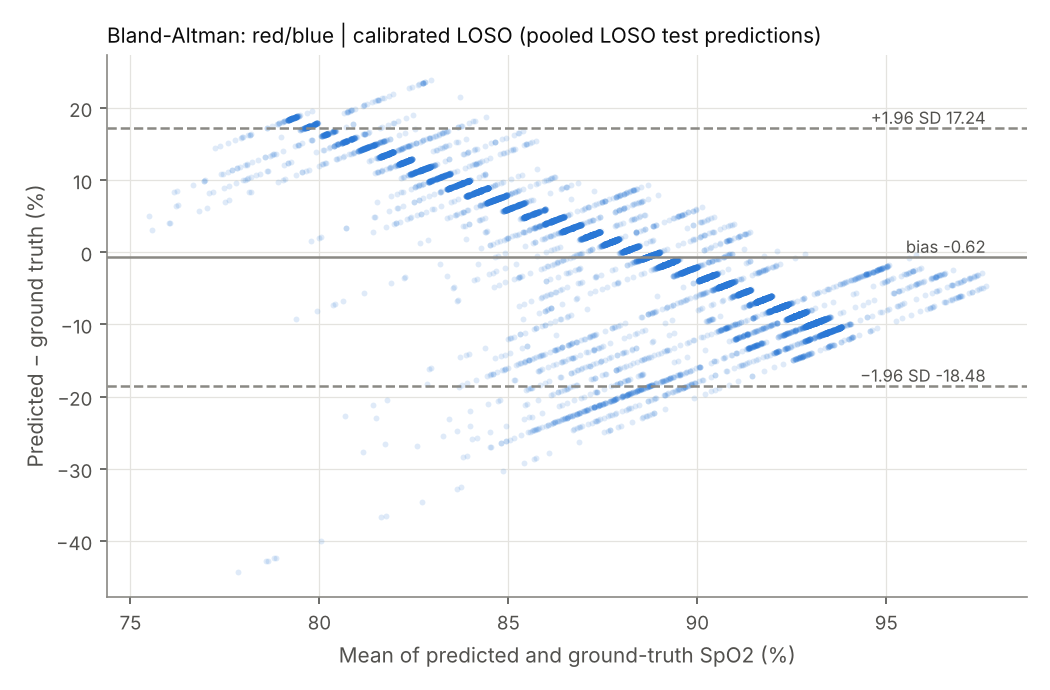
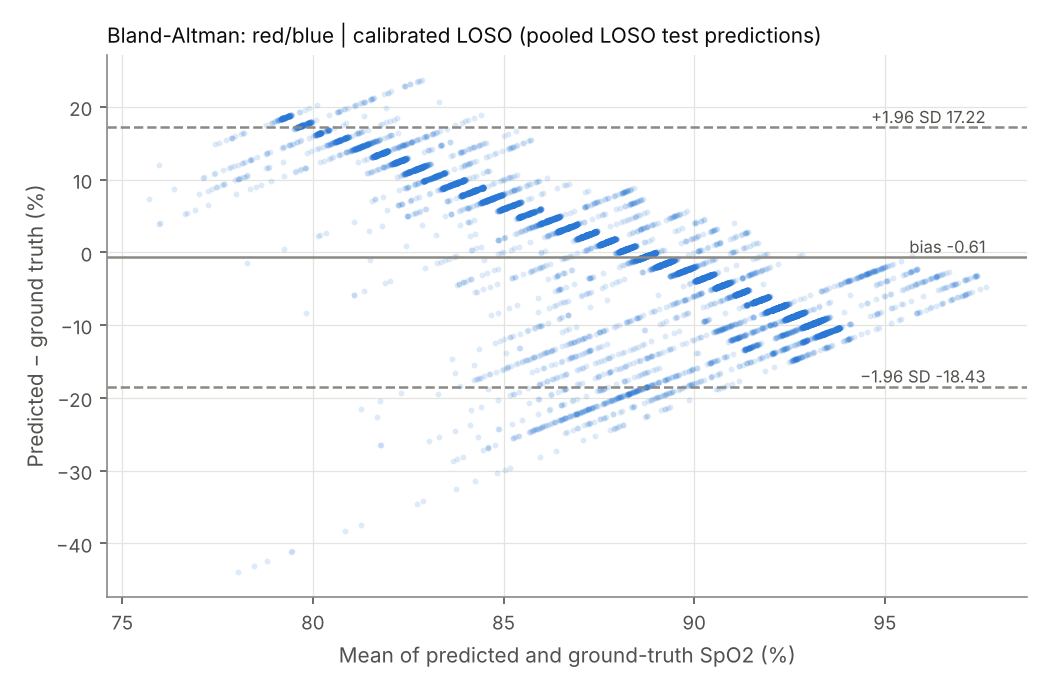
Align ground truth to frames by each recording's own length
Map ground-truth row i to frame round(i * n_frames / n_gt_rows) instead
of i * 30. Recordings have 29.97-30.09 frames per GT row, so the fixed
30x mapping drifted by up to 2.6 s by the end of a recording.

Rerun src/ratio_of_ratios.py, update all results, and add a before/after
comparison of the main metrics to results/part1_summary.md.

Claude-Session: https://claude.ai/code/session_01RVQyu9iLi91GVmJw2MmXiP

diff --git a/src/dataset.py b/src/dataset.py
@@ -3,8 +3,10 @@
 Smartphone PPG: data/raw/data/ppg-csv/{Left,Right}/<subject>.csv  (R,G,B mean pixel value, 30 Hz)
 Ground truth:   data/raw/data/gt/<subject>.csv                    (1 Hz, Masimo Radical-7 = "SpO2 5"/"Pulse 5")
 
-The camera and the oximeters were started and stopped together, so ground-truth row i
-is aligned to frame i * FPS (alignment by index, no timestamps on the video side).
+The camera and the oximeters were started and stopped together, but the recordings have
+29.97-30.09 frames per ground-truth row rather than exactly 30. Mapping row i to frame i*30
+would drift by up to 2.6 s by the end of a recording, so each recording is stretched to its
+own length instead: row i -> frame round(i * n_frames / n_gt_rows).
 """
 from pathlib import Path
 
@@ -50,13 +52,18 @@ def alignment_report():
                 "subject": s, "hand": h, "gt_rows": n_gt, "frames": n_frames,
                 "frames_per_gt_row": n_frames / n_gt,
                 "frames_minus_30x_gt": n_frames - FPS * n_gt,
-                "drift_seconds": (n_frames - FPS * n_gt) / FPS,
+                "drift_seconds_if_i_times_30": (n_frames - FPS * n_gt) / FPS,
             })
     return pd.DataFrame(rows)
 
 
+def gt_row_to_frame(i, n_frames, n_gt):
+    """Centre frame for ground-truth row i, scaled so first and last rows match both ends."""
+    return int(round(i * n_frames / n_gt))
+
+
 def build_windows(window_sec=3.0, min_spo2=MIN_SPO2):
-    """Cut one window of `window_sec` seconds centred on frame i*FPS for every GT row i.
+    """Cut one window of `window_sec` seconds centred on frame round(i * n_frames / n_gt) for every GT row i.
 
     Windows that would run past either end of the recording are skipped, as are rows
     with missing SpO2 or SpO2 < min_spo2. Missing pulse is kept as NaN.
@@ -72,13 +79,14 @@ def build_windows(window_sec=3.0, min_spo2=MIN_SPO2):
     r, g, b, spo2, pulse, subj, hand, idx = [], [], [], [], [], [], [], []
     for s in SUBJECTS:
         gt = load_ground_truth(s)
+        n_gt = len(gt)
         for h in HANDS:
             wave = load_ppg(s, h)
             n_frames = wave.shape[1]
             for i, row in gt.iterrows():
                 if np.isnan(row.spo2) or row.spo2 < min_spo2:
                     continue
-                start = i * FPS - half
+                start = gt_row_to_frame(i, n_frames, n_gt) - half
                 stop = start + win
                 if start < 0 or stop > n_frames:
                     continue

diff --git a/results/part1_summary.md b/results/part1_summary.md
@@ -7,15 +7,19 @@ All numbers below were produced by `python src/ratio_of_ratios.py`. Full-precisi
 ## Method
 
 **Data.** 6 subjects × 2 hands (Nexus 6P, 30 fps), with ground truth from the Masimo Radical-7
-(`SpO2 5`, `Pulse 5`) at 1 Hz. Ground-truth row *i* is aligned by index to frame *i*·30. Recordings
-have 29.97–30.09 frames per ground-truth row, so the last row is off by between −0.97 s and +2.63 s
-(`part1_alignment.csv`). This was reported and not corrected. Rows with missing SpO2 or SpO2 < 70
-were excluded, following the paper, as were windows that run past either end of a recording.
-This leaves **11,572 three-second windows**. Their mean ground-truth SpO2 is 88.43%, and 49.4% of
-them are below 90%.
+(`SpO2 5`, `Pulse 5`) at 1 Hz. Rows with missing SpO2 or SpO2 < 70 were excluded, following the
+paper, as were windows that run past either end of a recording. This leaves **11,568 three-second
+windows**. Their mean ground-truth SpO2 is 88.43%, and 49.4% of them are below 90%.
+
+**Time alignment.** The camera and oximeters were started and stopped together, but the
+recordings have 29.97–30.09 frames per ground-truth row rather than exactly 30
+(`part1_alignment.csv`). Each recording is therefore stretched to its own length: ground-truth
+row *i* maps to frame round(*i* · n_frames / n_gt_rows), so the first and last rows line up with
+both ends of the video. The earlier version used frame *i* · 30, which drifted by between −0.97 s
+and +2.63 s by the end of a recording. Both versions are compared [below](#before--after-the-alignment-fix).
 
 **Signal processing** (same as `src/spo2_hr_from_video.py`):
-- 3-s window (90 frames) centred on frame *i*·30
+- 3-s window (90 frames) centred on the aligned frame
 - Butterworth band-pass, order 1, 0.67–4.0 Hz, `filtfilt`
 - AC = std of the filtered window, DC = mean of the raw window
 - R = (AC_red/DC_red) / (AC_x/DC_x), where x = blue or green
@@ -34,32 +38,32 @@ For hypoxemia classification, positive means SpO2 < 90%, applied to both ground 
 
 | Model | MAE (folds) | RMSE (folds) | R² (folds) | MAE (pooled) | RMSE (pooled) | R² (pooled) | Bias (pooled) | Sens <90 (pooled) | Spec <90 (pooled) |
 |---|---|---|---|---|---|---|---|---|---|
-| red/blue, fixed 110−25R | 8.18 ± 3.60 | 9.90 ± 4.89 | −0.72 ± 1.59 | 8.16 | 10.85 | −0.81 | −1.90 | 0.887 | 0.197 |
-| **red/blue, calibrated LOSO** | **7.50 ± 1.99** | 8.91 ± 2.39 | −0.27 ± 0.48 | 7.45 | 9.13 | −0.29 | −0.62 | 0.947 | 0.052 |
-| red/green, fixed 110−25R | 8.30 ± 2.81 | 10.69 ± 3.29 | −0.84 ± 0.78 | 8.15 | 10.94 | −0.85 | 5.07 | 0.132 | 0.831 |
-| red/green, calibrated LOSO | 7.56 ± 2.25 | 9.12 ± 3.03 | −0.35 ± 0.73 | 7.51 | 9.49 | −0.39 | −0.67 | 0.961 | 0.049 |
+| red/blue, fixed 110−25R | 8.18 ± 3.59 | 9.89 ± 4.85 | −0.71 ± 1.57 | 8.16 | 10.82 | −0.81 | −1.87 | 0.883 | 0.196 |
+| **red/blue, calibrated LOSO** | **7.49 ± 1.97** | 8.90 ± 2.36 | −0.26 ± 0.47 | 7.44 | 9.12 | −0.28 | −0.61 | 0.944 | 0.051 |
+| red/green, fixed 110−25R | 8.31 ± 2.81 | 10.70 ± 3.29 | −0.85 ± 0.78 | 8.15 | 10.96 | −0.85 | 5.09 | 0.129 | 0.831 |
+| red/green, calibrated LOSO | 7.55 ± 2.23 | 9.12 ± 3.01 | −0.35 ± 0.72 | 7.50 | 9.47 | −0.38 | −0.65 | 0.963 | 0.050 |
 
 By mean fold MAE, the best calibrated model is **red/blue** (`part1_bland_altman_best.png`). Its
-Bland-Altman bias is −0.62, and its 95% limits of agreement are −18.48 to +17.24 percentage points.
+Bland-Altman bias is −0.61, and its 95% limits of agreement are −18.43 to +17.22 percentage points.
 
 ### MAE per test subject
 
 | Subject | n windows | red/blue fixed | red/blue calibrated | red/green fixed | red/green calibrated |
 |---|---|---|---|---|---|
-| 100001 | 1937 | 15.50 | 11.23 | 12.95 | 11.89 |
-| 100002 | 2238 | 6.33 | 6.92 | 5.03 | 6.72 |
-| 100003 | 2128 | 6.84 | 6.57 | 8.01 | 6.56 |
-| 100004 | 2025 | 6.46 | 5.35 | 5.97 | 5.40 |
-| 100005 | 1734 | 6.86 | 7.40 | 8.21 | 7.32 |
-| 100006 | 1510 | 7.09 | 7.51 | 9.63 | 7.46 |
+| 100001 | 1936 | 15.48 | 11.17 | 12.95 | 11.85 |
+| 100002 | 2238 | 6.34 | 6.93 | 5.04 | 6.72 |
+| 100003 | 2126 | 6.84 | 6.57 | 8.03 | 6.56 |
+| 100004 | 2024 | 6.47 | 5.34 | 5.98 | 5.40 |
+| 100005 | 1734 | 6.85 | 7.40 | 8.21 | 7.32 |
+| 100006 | 1510 | 7.09 | 7.51 | 9.64 | 7.46 |
 
 ### R² per test subject
 
 | Subject | red/blue fixed | red/blue calibrated | red/green fixed | red/green calibrated |
 |---|---|---|---|---|
-| 100001 | −3.95 | −1.25 | −2.14 | −1.83 |
+| 100001 | −3.90 | −1.22 | −2.14 | −1.81 |
 | 100002 | −0.01 | −0.21 | 0.29 | −0.11 |
-| 100003 | −0.04 | −0.04 | −0.86 | −0.04 |
+| 100003 | −0.05 | −0.04 | −0.87 | −0.04 |
 | 100004 | −0.43 | −0.01 | −0.78 | −0.03 |
 | 100005 | 0.08 | −0.04 | −0.62 | −0.03 |
 | 100006 | 0.06 | −0.06 | −0.96 | −0.05 |
@@ -68,20 +72,20 @@ Bland-Altman bias is −0.62, and its 95% limits of agreement are −18.48 to +1
 
 | Subject | MAE | RMSE | R² | Bias | Sens <90 | Spec <90 |
 |---|---|---|---|---|---|---|
-| 100001 | 11.23 | 13.37 | −1.25 | −4.29 | 0.61 | 0.26 |
-| 100002 | 6.92 | 8.15 | −0.21 | −2.03 | 1.00 | 0.00 |
-| 100003 | 6.57 | 8.12 | −0.04 | 1.47 | 1.00 | 0.00 |
-| 100004 | 5.35 | 6.18 | −0.01 | −1.11 | 1.00 | 0.00 |
-| 100005 | 7.40 | 8.78 | −0.04 | 1.07 | 1.00 | 0.00 |
-| 100006 | 7.51 | 8.89 | −0.06 | 1.94 | 1.00 | 0.00 |
+| 100001 | 11.17 | 13.29 | −1.22 | −4.21 | 0.59 | 0.26 |
+| 100002 | 6.93 | 8.16 | −0.21 | −2.03 | 1.00 | 0.00 |
+| 100003 | 6.57 | 8.11 | −0.04 | 1.48 | 1.00 | 0.00 |
+| 100004 | 5.34 | 6.18 | −0.01 | −1.11 | 1.00 | 0.00 |
+| 100005 | 7.40 | 8.78 | −0.04 | 1.06 | 1.00 | 0.00 |
+| 100006 | 7.51 | 8.89 | −0.06 | 1.93 | 1.00 | 0.00 |
 
 ## Comparison with the paper
 
 | | MAE (%) | R² |
 |---|---|---|
 | Paper, ratio-of-ratios baseline (Hoffman et al. 2022) | 7.12 | 0.21 |
-| This work, red/blue calibrated LOSO (folds mean) | 7.50 | −0.27 |
-| This work, red/blue calibrated LOSO (pooled) | 7.45 | −0.29 |
+| This work, red/blue calibrated LOSO (folds mean) | 7.49 | −0.26 |
+| This work, red/blue calibrated LOSO (pooled) | 7.44 | −0.28 |
 | This work, red/blue fixed 110−25R (pooled) | 8.16 | −0.81 |
 
 The MAE is close to the paper's baseline, but the R² is not. Our calibrated models have negative
@@ -95,21 +99,21 @@ not strictly comparable.
 
 The main issue is that the linear fit across subjects comes out almost flat:
 
-- **Coefficients from all subjects** (`part1_coefficients.json`): red/blue a = 85.54, b = −3.08;
-  red/green a = 89.13, b = 1.06. For red/blue, b is negative, meaning predicted SpO2 *rises* with R,
+- **Coefficients from all subjects** (`part1_coefficients.json`): red/blue a = 85.48, b = −3.15;
+  red/green a = 89.09, b = 1.01. For red/blue, b is negative, meaning predicted SpO2 *rises* with R,
   which is the opposite of the physiology. The JSON file flags this with a warning. Both slopes are
   so small that the model mostly predicts close to the training mean (about 88%).
 - **Within each recording, R often does track SpO2 in the expected direction** (`part1_r_correlation.csv`).
   For red/green, Pearson r(R, SpO2) is negative in 9 of 12 recordings, down to −0.89 (100006 Left).
   Across all recordings pooled, though, r is −0.03 for red/green and +0.10 for red/blue.
-- **R's offset differs between recordings.** The median red/blue R ranges from 0.75 to 1.39 across
+- **R's offset differs between recordings.** The median red/blue R ranges from 0.74 to 1.39 across
   recordings, and subject 100001 Right (median 1.39) has a *positive* correlation. When 100001 is
-  left out of training, the fitted slope has the expected sign (red/blue b = 12.21, red/green
-  b = 19.60). In the other five folds, which include 100001 in training, the slope is near zero or
+  left out of training, the fitted slope has the expected sign (red/blue b = 12.11, red/green
+  b = 19.47). In the other five folds, which include 100001 in training, the slope is near zero or
   inverted (`part1_fold_coefficients.csv`). Subject 100001 also has the largest error in every model.
 - **The hypoxemia classifier is therefore close to trivial.** The calibrated models predict values
   near 88%, below the 90% cut-off, so almost every window is classified as hypoxemic. That gives a
-  high sensitivity (0.95–0.96) but a specificity of about 0.05. In five of the six test subjects,
+  high sensitivity (0.94–0.96) but a specificity of about 0.05. In five of the six test subjects,
   every window is classified positive.
 
 A single global linear calibration of the ratio-of-ratios cannot absorb the differences between
@@ -119,20 +123,58 @@ filtering, might help, but those were outside this task and were not tested.
 ## Heart rate
 
 The estimates are peak-based HR from the red channel, compared with Masimo `Pulse 5`. Only windows
-that exist for both lengths and have a ground-truth pulse are compared (11,500 ten-second windows
+that exist for both lengths and have a ground-truth pulse are compared (11,496 ten-second windows
 are available).
 
 | Window | Scope | n | Coverage (≥2 peaks) | MAE (bpm) | RMSE (bpm) | Bias (bpm) | Pearson r |
 |---|---|---|---|---|---|---|---|
-| 3 s | own valid windows | 10,942 | 95.1% | 4.83 | 11.64 | 0.99 | 0.669 |
-| 10 s | own valid windows | 11,440 | 99.5% | 3.95 | 8.06 | −1.84 | 0.814 |
-| 3 s | both valid | 10,931 | — | 4.79 | 11.48 | 0.95 | 0.675 |
-| 10 s | both valid | 10,931 | — | 3.12 | 5.95 | −1.01 | 0.880 |
+| 3 s | own valid windows | 10,981 | 95.5% | 4.72 | 10.76 | 0.75 | 0.699 |
+| 10 s | own valid windows | 11,439 | 99.5% | 4.00 | 8.35 | −1.83 | 0.803 |
+| 3 s | both valid | 10,969 | — | 4.68 | 10.60 | 0.72 | 0.705 |
+| 10 s | both valid | 10,969 | — | 3.22 | 6.34 | −1.08 | 0.867 |
 
-**A 10-second window helps.** On the same windows, MAE drops from 4.79 to 3.12 bpm and r rises from
-0.675 to 0.880. Coverage also rises from 95.1% to 99.5%. The 3-s window produces outliers up to
-about 225 bpm, when only two close peaks are found (`part1_hr_scatter.png`). The 10-s window mostly
+**A 10-second window helps.** On the same windows, MAE drops from 4.68 to 3.22 bpm and r rises from
+0.705 to 0.867. Coverage also rises from 95.5% to 99.5%. The 3-s window produces outliers up to
+225 bpm, when only two close peaks are found (`part1_hr_scatter.png`). The 10-s window mostly
 under-estimates instead, with a cluster of low estimates for ground-truth pulse of 55–70 bpm.
+
+## Before / after the alignment fix
+
+The table compares the earlier alignment (row *i* → frame *i* · 30) with the current one
+(row *i* → frame round(*i* · n_frames / n_gt_rows)). The rest of the pipeline is unchanged.
+The window count drops from 11,572 to 11,568 three-second windows and from 11,500 to 11,496
+ten-second windows. Only the last one or two ground-truth rows of each recording are affected:
+depending on whether a recording has more or fewer than 30 frames per row, a window there now
+does or no longer fits inside the video. In total this is a net loss of 4 windows.
+
+| Model | Scope | MAE | RMSE | R² | Sens <90 | Spec <90 |
+|---|---|---|---|---|---|---|
+| red/blue, fixed | folds mean | 8.18 → 8.18 | 9.90 → 9.89 | −0.72 → −0.71 | 0.875 → 0.871 | 0.188 → 0.186 |
+| red/blue, fixed | pooled | 8.16 → 8.16 | 10.85 → 10.82 | −0.81 → −0.81 | 0.887 → 0.883 | 0.197 → 0.196 |
+| red/blue, calibrated | folds mean | 7.50 → 7.49 | 8.91 → 8.90 | −0.27 → −0.26 | 0.935 → 0.931 | 0.043 → 0.043 |
+| red/blue, calibrated | pooled | 7.45 → 7.44 | 9.13 → 9.12 | −0.29 → −0.28 | 0.947 → 0.944 | 0.052 → 0.051 |
+| red/green, fixed | folds mean | 8.30 → 8.31 | 10.69 → 10.70 | −0.84 → −0.85 | 0.139 → 0.136 | 0.863 → 0.863 |
+| red/green, fixed | pooled | 8.15 → 8.15 | 10.94 → 10.96 | −0.85 → −0.85 | 0.132 → 0.129 | 0.831 → 0.831 |
+| red/green, calibrated | folds mean | 7.56 → 7.55 | 9.12 → 9.12 | −0.35 → −0.35 | 0.951 → 0.954 | 0.041 → 0.042 |
+| red/green, calibrated | pooled | 7.51 → 7.50 | 9.49 → 9.47 | −0.39 → −0.38 | 0.961 → 0.963 | 0.049 → 0.050 |
+
+| Heart rate | Scope | n | MAE (bpm) | RMSE (bpm) | Pearson r | Coverage |
+|---|---|---|---|---|---|---|
+| 3-s window | own valid windows | 10,942 → 10,981 | 4.83 → 4.72 | 11.64 → 10.76 | 0.669 → 0.699 | 0.951 → 0.955 |
+| 10-s window | own valid windows | 11,440 → 11,439 | 3.95 → 4.00 | 8.06 → 8.35 | 0.814 → 0.803 | 0.995 → 0.995 |
+| 3-s window | both valid | 10,931 → 10,969 | 4.79 → 4.68 | 11.48 → 10.60 | 0.675 → 0.705 | — |
+| 10-s window | both valid | 10,931 → 10,969 | 3.12 → 3.22 | 5.95 → 6.34 | 0.880 → 0.867 | — |
+
+**What changed:**
+- **SpO2 metrics barely move.** In the fold-mean and pooled rows above, MAE changes by at most
+  0.01, RMSE by 0.03 and R² by 0.01. Per test subject, the largest changes are 0.06 in MAE, 0.10 in
+  RMSE and 0.05 in R² (all for subject 100001). None of the conclusions change. SpO2 changes slowly compared with a drift of a few seconds, so the exact
+  window position matters little for a 1 Hz ground truth.
+- **3-s heart rate improves slightly** (pooled MAE 4.83 → 4.72 bpm, r 0.669 → 0.699).
+- **10-s heart rate gets slightly worse** (pooled MAE 3.95 → 4.00 bpm, r 0.814 → 0.803). The
+  10-s window is still clearly better than the 3-s window.
+- **The calibration coefficients shift a little** (red/blue a 85.54 → 85.48, b −3.08 → −3.15;
+  red/green a 89.13 → 89.09, b 1.06 → 1.01). red/blue's b is still negative.
 
 ## Output files
 

diff --git a/data/README.md b/data/README.md
@@ -26,7 +26,8 @@ git clone --depth 1 https://github.com/ubicomplab/oximetry-phone-cam-data data/r
 - In `gt/100004.csv` the first header cell is empty instead of `Time`. The loader renames the first column.
 - Timestamps are consecutive 1-s steps with no gaps. `SpO2 5` and `Pulse 5` contain no zeros
   or blanks in these files, but zeros are still treated as missing.
-- The camera and oximeters were started and stopped together, so ground-truth row *i* is aligned
-  to frame *i*·30. The frame counts are not exactly 30 × the number of ground-truth rows. They range
-  from 29.97 to 30.09 frames per row, a difference of −29 to +79 frames (−0.97 s to +2.63 s by the
-  end of a recording). See `results/part1_alignment.csv`.
+- The camera and oximeters were started and stopped together, but the frame counts are not exactly
+  30 × the number of ground-truth rows. They range from 29.97 to 30.09 frames per row, a difference
+  of −29 to +79 frames (−0.97 s to +2.63 s by the end of a recording if row *i* were mapped to frame
+  *i*·30). `src/dataset.py` therefore maps ground-truth row *i* to frame
+  round(*i* · n_frames / n_gt_rows) for each recording. See `results/part1_alignment.csv`.
